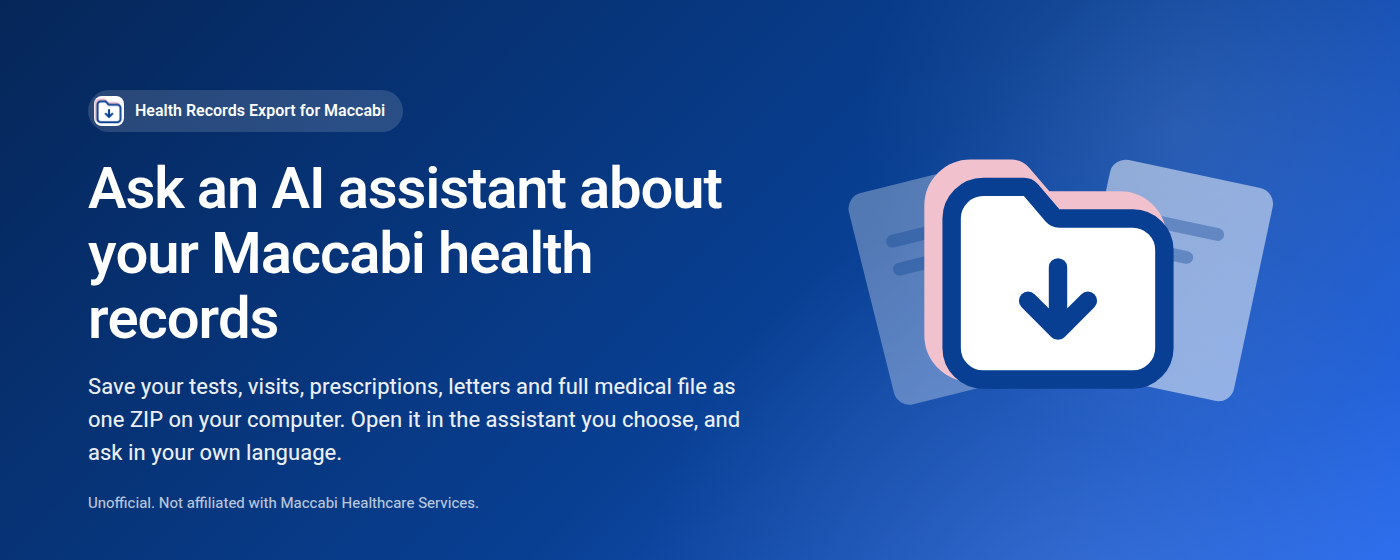
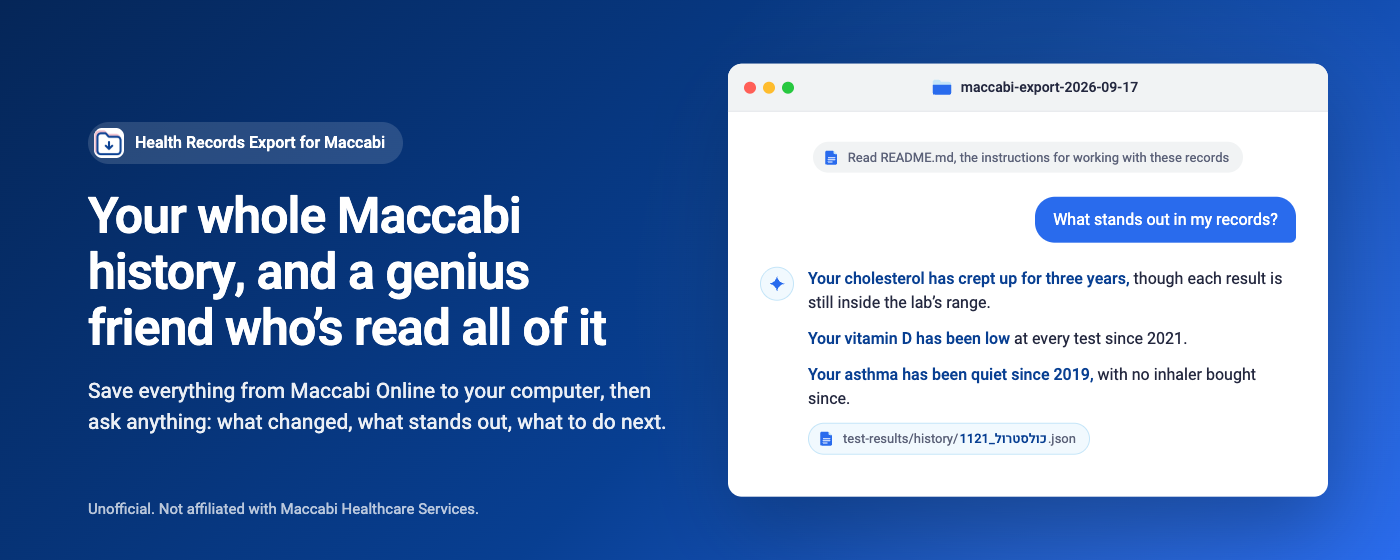
Retell the marquee and the link previews in the new positioning
The marquee tile now carries docs/positioning.md's headline and subline
beside the assistant saying what stands out (STANDS_OUT), screenshot 1 in a
wide frame, instead of the folder artwork and "Ask an AI assistant about
your Maccabi health records". GitHub's social preview is that layout at
1280x640, since GitHub prints the repository's name under it and not the
headline.

The AI assistant page's link preview is the assistant answering, centred
under the name and Unofficial, and its og:title and og:description are the
headline and subline, which the app showing the preview prints under the
picture.

diff --git a/store/src/stage.ts b/store/src/stage.ts
@@ -153,49 +153,38 @@ function promo(): HTMLElement {
   </svg>`, 'promo');
 }
 
-// The marquee tile (1400x560): the same artwork, larger, beside the extension's name and its
-// one line. The store crops the right of this image on narrow screens, so the text stays left.
+// The marquee tile (1400x560): docs/positioning.md's headline and subline beside the assistant saying what stands out,
+// the picture of its headline, as on screenshot 1. The store crops the right of this image on narrow screens, so the
+// text stays left. The `social` shot is the same at GitHub's 1280x640, for the repository's social preview (uploaded
+// by hand in its settings), which shows the repository's own name and description under it and not the headline.
 function marquee(): HTMLElement {
   return h('div', 'mq',
     h('section', 'mq-copy',
       h('div', 'eyebrow', img('/icons/icon-128.png'), 'Health Records Export for Maccabi'),
-      h('h1', '', 'Ask an AI assistant about your Maccabi health records'),
-      h('p', 'lead', 'Save your tests, visits, prescriptions, letters and full medical file as one ZIP on your computer. Open it in the assistant you choose, and ask in your own language.'),
+      h('h1', '', SHOTS.ask.title),
+      h('p', 'lead', SHOTS.ask.text),
       h('p', 'disclaimer', 'Unofficial. Not affiliated with Maccabi Healthcare Services.'),
     ),
-    svg(`<svg viewBox="0 0 540 440" width="540" height="440">
-      <g transform="translate(270 220)">
-        <g transform="rotate(-14) translate(-186 -134) scale(1.6)">${paper(0.3)}</g>
-        <g transform="rotate(12) translate(28 -134) scale(1.6)">${paper(0.5)}</g>
-        <g transform="translate(-138 -144) scale(11.5)">${MARK}</g>
-      </g>
-    </svg>`, 'mq-art'),
+    chatWindow(STANDS_OUT).el,
   );
 }
 
-// The link preview of the published AI assistant page (1200x630, not a store field): the marquee's artwork and line,
-// centred, because WhatsApp and others crop previews to a narrower box, or a square, around the middle. The page's
-// own title is printed under it by the app showing the preview, so the picture says the rest. The `social` shot is
-// the same picture at GitHub's 1280x640, for the repository's social preview (uploaded by hand in its settings).
+// The link preview of the published AI assistant page (1200x630, not a store field): the assistant saying what stands
+// out, under the name, centred, because WhatsApp and others crop previews to a narrower box, or a square, around the
+// middle. The app showing the preview prints the page's og:title, the headline, under it, so the picture is the
+// product and does not say it again.
 function og(): HTMLElement {
   return h('div', 'og',
-    svg(`<svg viewBox="0 0 540 440" width="290" height="236">
-      <g transform="translate(270 220)">
-        <g transform="rotate(-14) translate(-186 -134) scale(1.6)">${paper(0.3)}</g>
-        <g transform="rotate(12) translate(28 -134) scale(1.6)">${paper(0.5)}</g>
-        <g transform="translate(-138 -144) scale(11.5)">${MARK}</g>
-      </g>
-    </svg>`, 'og-art'),
-    h('h1', '', 'Ask an AI assistant about your Maccabi health records'),
     h('div', 'eyebrow', img('/icons/icon-128.png'), 'Health Records Export for Maccabi · Unofficial'),
+    chatWindow(STANDS_OUT).el,
   );
 }
 
 async function main(): Promise<void> {
   const name = new URLSearchParams(location.search).get('shot') || 'start';
   if (name === 'promo' || name === 'marquee' || name === 'og' || name === 'social') {
-    document.body.className = name === 'promo' ? 'tile' : name === 'social' ? 'og social' : name;
-    document.body.append(name === 'promo' ? promo() : name === 'marquee' ? marquee() : og());
+    document.body.className = name === 'promo' ? 'tile' : name === 'social' ? 'marquee social' : name;
+    document.body.append(name === 'promo' ? promo() : name === 'og' ? og() : marquee());
   } else {
     const shot = SHOTS[name];
     if (!shot) throw new Error('unknown shot ' + name);

diff --git a/store/src/stage.css b/store/src/stage.css
@@ -127,18 +127,23 @@ body.tile {
   display: block;
 }
 
-/* ---- marquee promo tile (1400x560) ---- */
+/* ---- marquee promo tile (1400x560), and the repository's social preview (1280x640) ---- */
 body.marquee {
   position: relative;
   width: 1400px;
   height: 560px;
   overflow: hidden;
   color: #ffffff;
-  /* The small tile's soft circles, as glows behind the artwork: at this width a hard
-     edge would read as a seam, and the text stays on flat colour. */
+  /* A glow behind the assistant; at this width a hard edge would read as a seam. */
   background:
-    radial-gradient(460px 460px at 1180px 130px, rgba(255, 255, 255, 0.1), rgba(255, 255, 255, 0) 70%),
-    radial-gradient(620px 620px at 1070px 620px, rgba(255, 255, 255, 0.1), rgba(255, 255, 255, 0) 70%),
+    radial-gradient(620px 620px at 1060px 300px, rgba(255, 255, 255, 0.1), rgba(255, 255, 255, 0) 70%),
+    linear-gradient(135deg, #052658 0%, #083f92 55%, #296bed 100%);
+}
+body.marquee.social {
+  width: 1280px;
+  height: 640px;
+  background:
+    radial-gradient(620px 620px at 960px 340px, rgba(255, 255, 255, 0.1), rgba(255, 255, 255, 0) 70%),
     linear-gradient(135deg, #052658 0%, #083f92 55%, #296bed 100%);
 }
 .mq-copy {
@@ -146,10 +151,14 @@ body.marquee {
   left: 88px;
   top: 0;
   bottom: 0;
-  width: 700px;
+  width: 600px;
   display: flex;
   flex-direction: column;
   justify-content: center;
+}
+.social .mq-copy {
+  left: 72px;
+  width: 590px;
 }
 .mq-copy .eyebrow {
   gap: 11px;
@@ -163,24 +172,36 @@ body.marquee {
 }
 .mq-copy h1 {
   margin: 26px 0 18px;
-  font-size: 58px;
+  font-size: 50px;
+  text-wrap: balance;
 }
 .mq-copy .lead {
   margin: 0;
-  max-width: 660px;
-  font-size: 22px;
+  font-size: 21px;
 }
 .mq-copy .disclaimer {
-  bottom: 46px;
+  bottom: 40px;
   font-size: 15px;
 }
-.mq-art {
-  position: absolute;
+/* Only the question and its answer: no box to ask in, so the window ends under the source. */
+.mq .window {
+  top: 50%;
   right: 72px;
-  top: 62px;
+  width: 600px;
+  height: auto;
+  transform: translateY(-50%);
 }
-.mq-art svg {
-  display: block;
+.social .mq .window {
+  right: 60px;
+  width: 540px;
+}
+.mq .chat-foot,
+.og .chat-foot {
+  display: none;
+}
+.mq .chat-body,
+.og .chat-body {
+  padding-bottom: 30px;
 }
 
 /* ---- the AI assistant page's link preview (1200x630) ---- */
@@ -190,15 +211,7 @@ body.og {
   overflow: hidden;
   color: #ffffff;
   background:
-    radial-gradient(520px 520px at 600px 170px, rgba(255, 255, 255, 0.1), rgba(255, 255, 255, 0) 70%),
-    linear-gradient(135deg, #052658 0%, #083f92 55%, #296bed 100%);
-}
-/* The repository's social preview: GitHub's size, the same picture. */
-body.og.social {
-  width: 1280px;
-  height: 640px;
-  background:
-    radial-gradient(520px 520px at 640px 175px, rgba(255, 255, 255, 0.1), rgba(255, 255, 255, 0) 70%),
+    radial-gradient(560px 560px at 600px 380px, rgba(255, 255, 255, 0.1), rgba(255, 255, 255, 0) 70%),
     linear-gradient(135deg, #052658 0%, #083f92 55%, #296bed 100%);
 }
 .og {
@@ -207,17 +220,6 @@ body.og.social {
   flex-direction: column;
   align-items: center;
   justify-content: center;
-  text-align: center;
-}
-.og-art svg {
-  display: block;
-}
-/* Narrow enough that a square thumbnail, cut from the middle, keeps the whole line. */
-.og h1 {
-  max-width: 590px;
-  margin: 14px 0 24px;
-  font-size: 52px;
-  text-wrap: balance;
 }
 .og .eyebrow {
   align-self: center;
@@ -229,4 +231,18 @@ body.og.social {
   width: 30px;
   height: 30px;
   border-radius: 8px;
+}
+/* Narrow enough that a square thumbnail, cut from the middle, keeps the whole answer, and zoomed so it still reads
+   small. */
+.og .window {
+  position: relative;
+  top: auto;
+  right: auto;
+  width: 500px;
+  height: auto;
+  margin-top: 30px;
+  zoom: 1.2;
+}
+.og .chat-note {
+  display: none;
 }

diff --git a/public/ai-assistant.html b/public/ai-assistant.html
@@ -10,9 +10,10 @@
     <meta name="color-scheme" content="light" />
     <title>Hand it to an AI assistant - Health Records Export for Maccabi</title>
     <meta name="description" content="Ask an AI assistant about your Maccabi Online medical records, in plain language and in the language you speak. Free, open source and unofficial." />
-    <!-- For link previews of the web copy; og.png is added there by the Pages workflow. -->
-    <meta property="og:title" content="Your whole medical history, explained in your language" />
-    <meta property="og:description" content="Ask an AI assistant about your Maccabi Online medical records. Free, open source and unofficial." />
+    <!-- For link previews of the web copy: docs/positioning.md's headline and subline, under og.png, the assistant
+         answering, which the Pages workflow adds there. -->
+    <meta property="og:title" content="Your whole Maccabi history, and a genius friend who's read all of it" />
+    <meta property="og:description" content="Save everything from Maccabi Online to your computer, then ask anything: what changed, what stands out, what to do next." />
     <meta property="og:image" content="https://ronirachmani.github.io/health-records-export-for-maccabi/og.png" />
     <meta property="og:url" content="https://ronirachmani.github.io/health-records-export-for-maccabi/ai-assistant.html" />
     <meta name="twitter:card" content="summary_large_image" />

diff --git a/docs/store-listing.md b/docs/store-listing.md
@@ -121,7 +121,7 @@ Unofficial. Not affiliated with, endorsed by or sponsored by Maccabi Healthcare 
 | Screenshot 4 | `store/assets/screenshot-4-start.png` | The popup, ready to start: "Log in and press Start export", with the one line on price and privacy |
 | Screenshot 5 | `store/assets/screenshot-5-open.png` | The finished export: "Then open it in Claude or ChatGPT", with where each desktop app opens a folder and the first message to send |
 | Small promo tile (440×280) | `store/assets/promo-small-440x280.png` | The icon's artwork on a blue background, with no text |
-| Marquee promo tile (1400×560) | `store/assets/promo-marquee-1400x560.png` | The same artwork beside the name and "Ask an AI assistant about your Maccabi health records". Optional: the store uses it only when it features the extension |
+| Marquee promo tile (1400×560) | `store/assets/promo-marquee-1400x560.png` | Screenshot 1 in a wide frame: the name, the headline and the subline beside the assistant saying what stands out (`STANDS_OUT`). Optional: the store uses it only when it features the extension |
 | Global promo video | https://youtu.be/zY5TxwlsGjs | Optional. See [Promo video](#promo-video) below |
 
 The screenshots are 1280×800 PNG files with no transparency. They follow [positioning.md](positioning.md): what the
